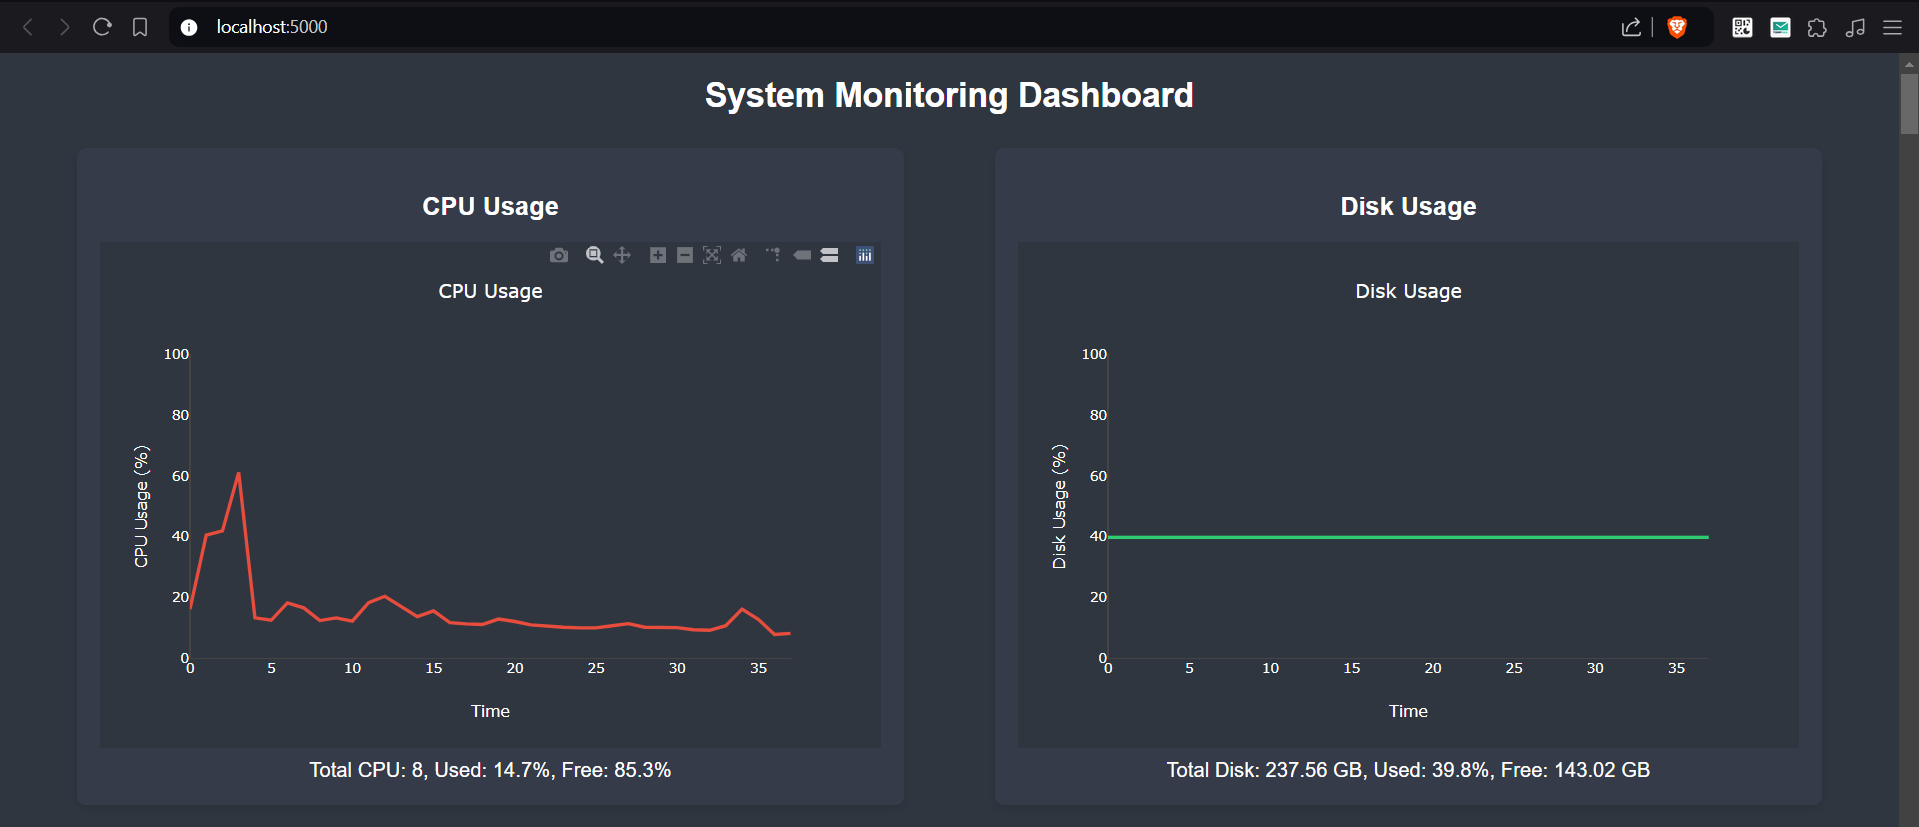
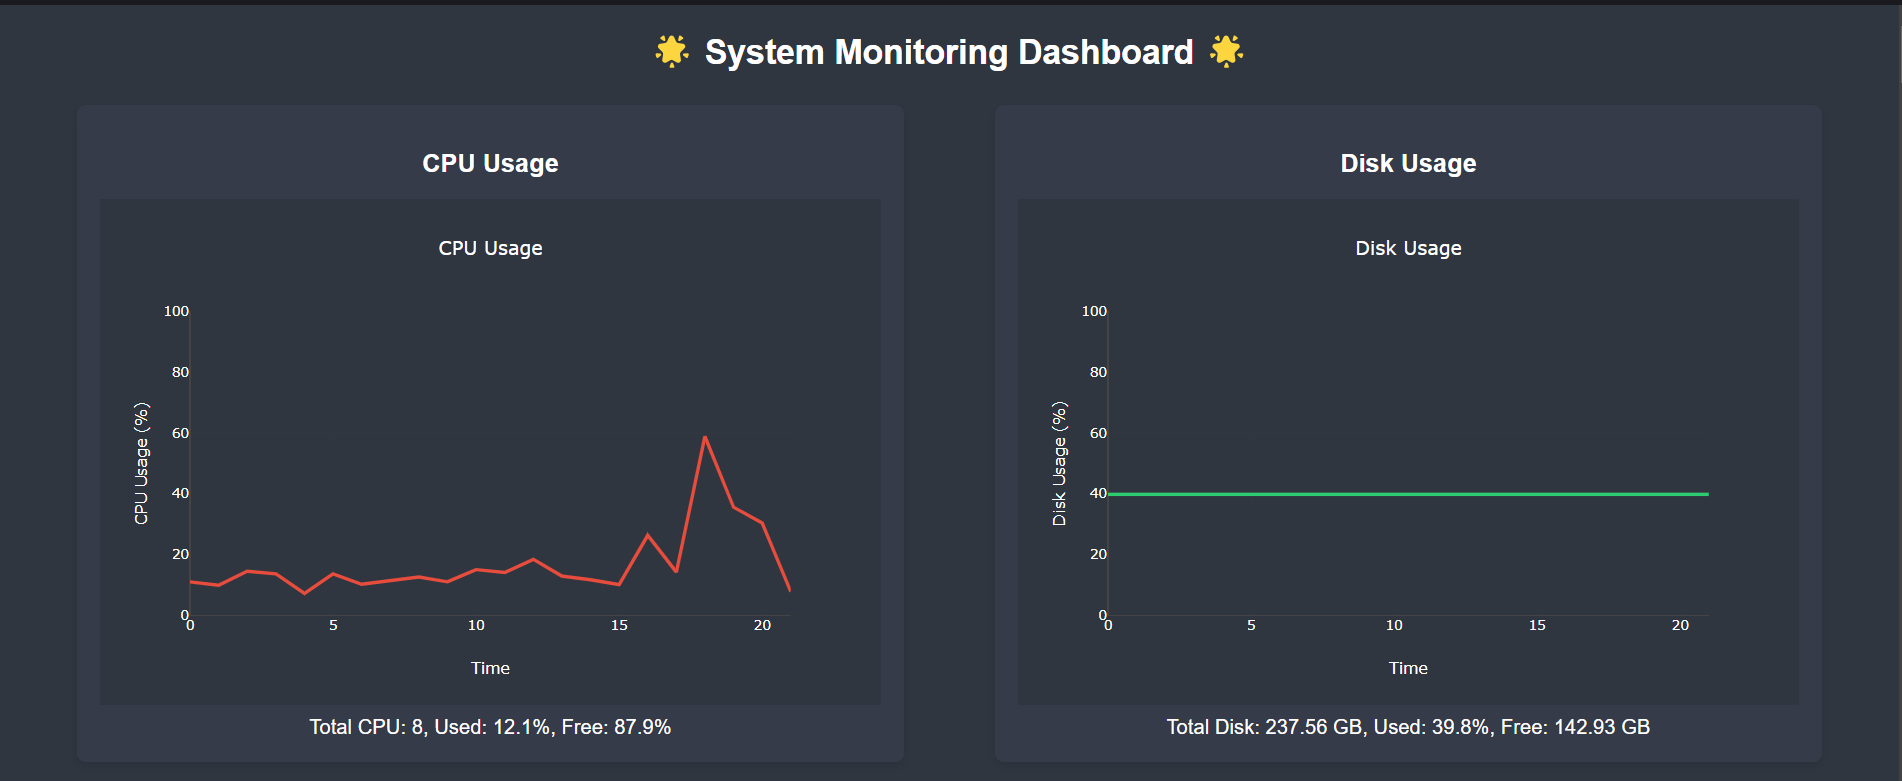
update dashboard

diff --git a/templates/index.html b/templates/index.html
@@ -55,7 +55,7 @@
 </head>
 <body>
 
-    <h1 style="text-align: center;">System Monitoring Dashboard</h1>
+    <h1 style="text-align: center;">🌟 System Monitoring Dashboard 🌟</h1>
 
     <div class="dashboard-container">
         <!-- First Column (CPU & Memory) -->
